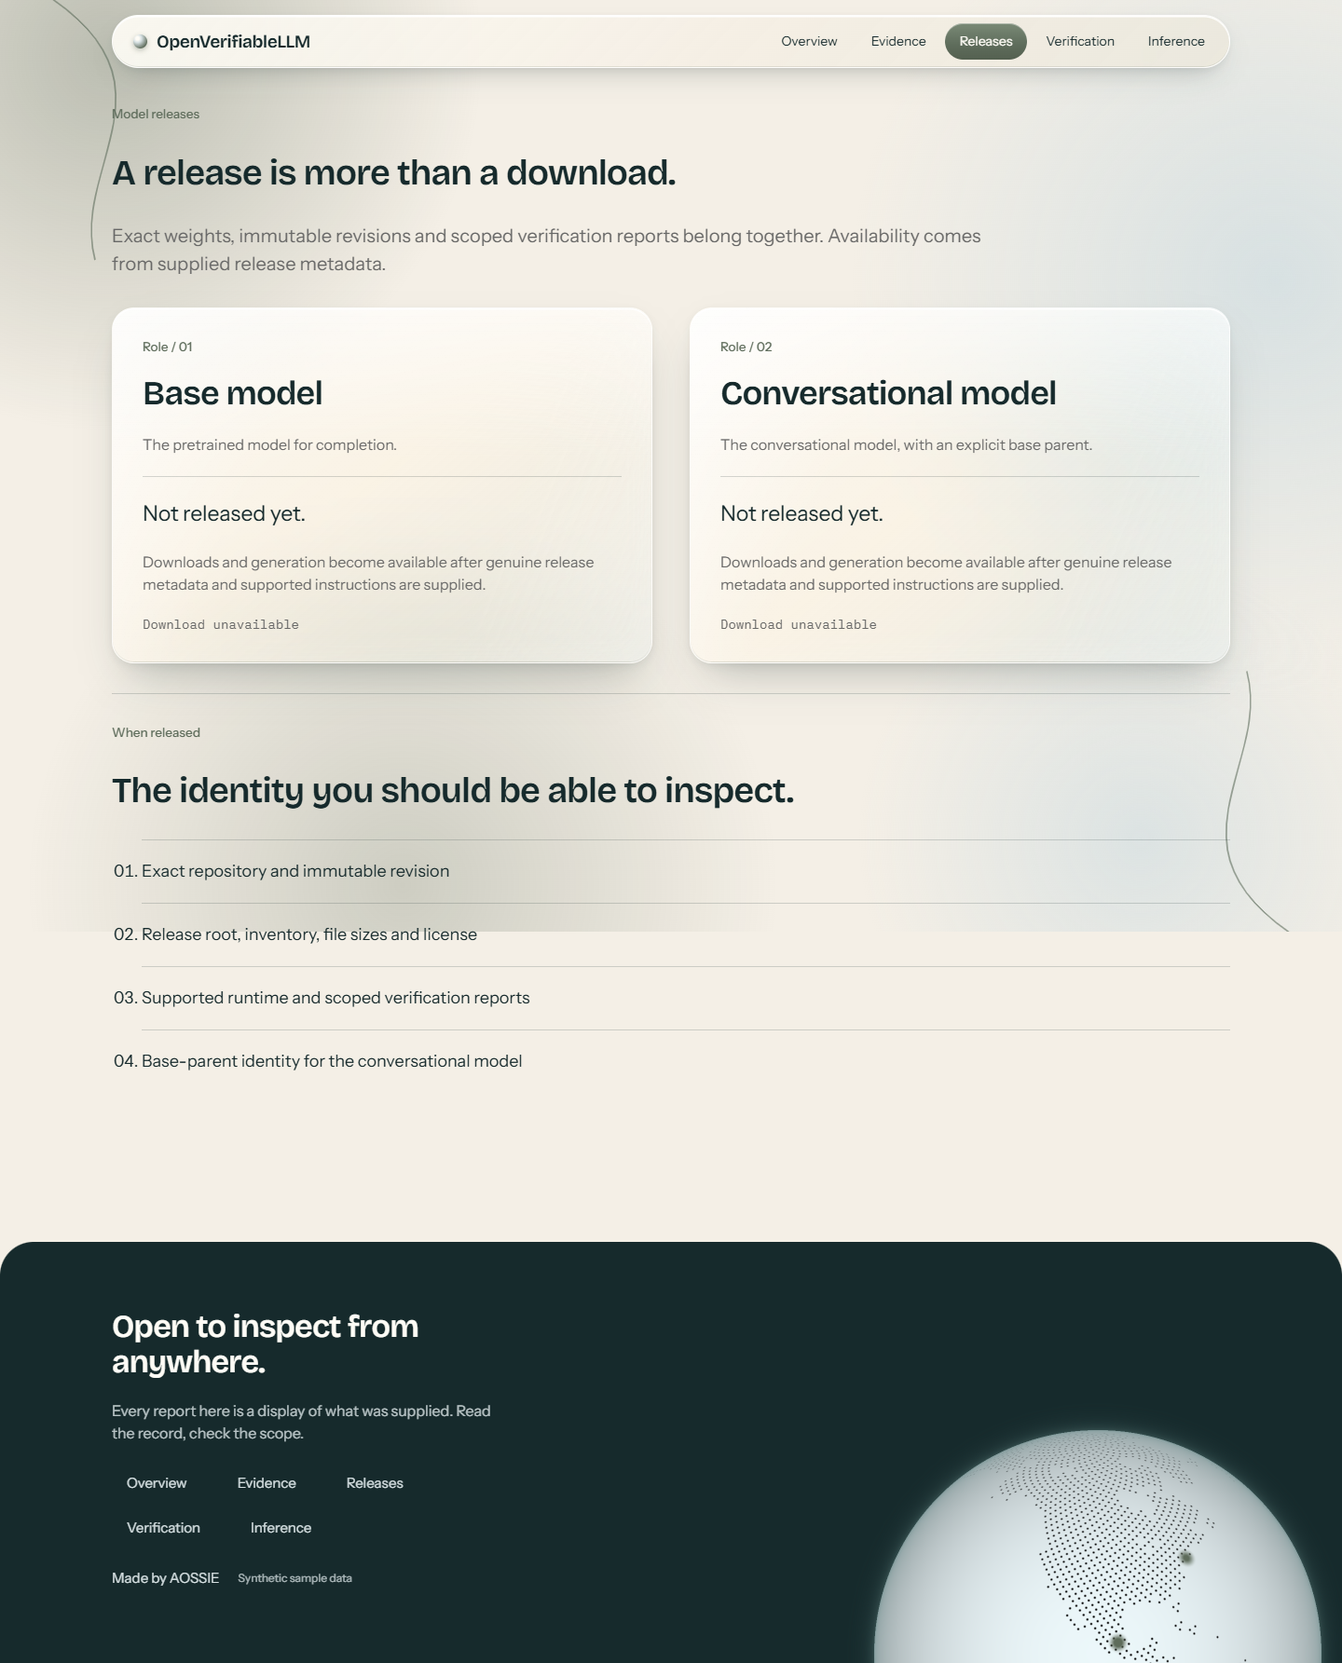
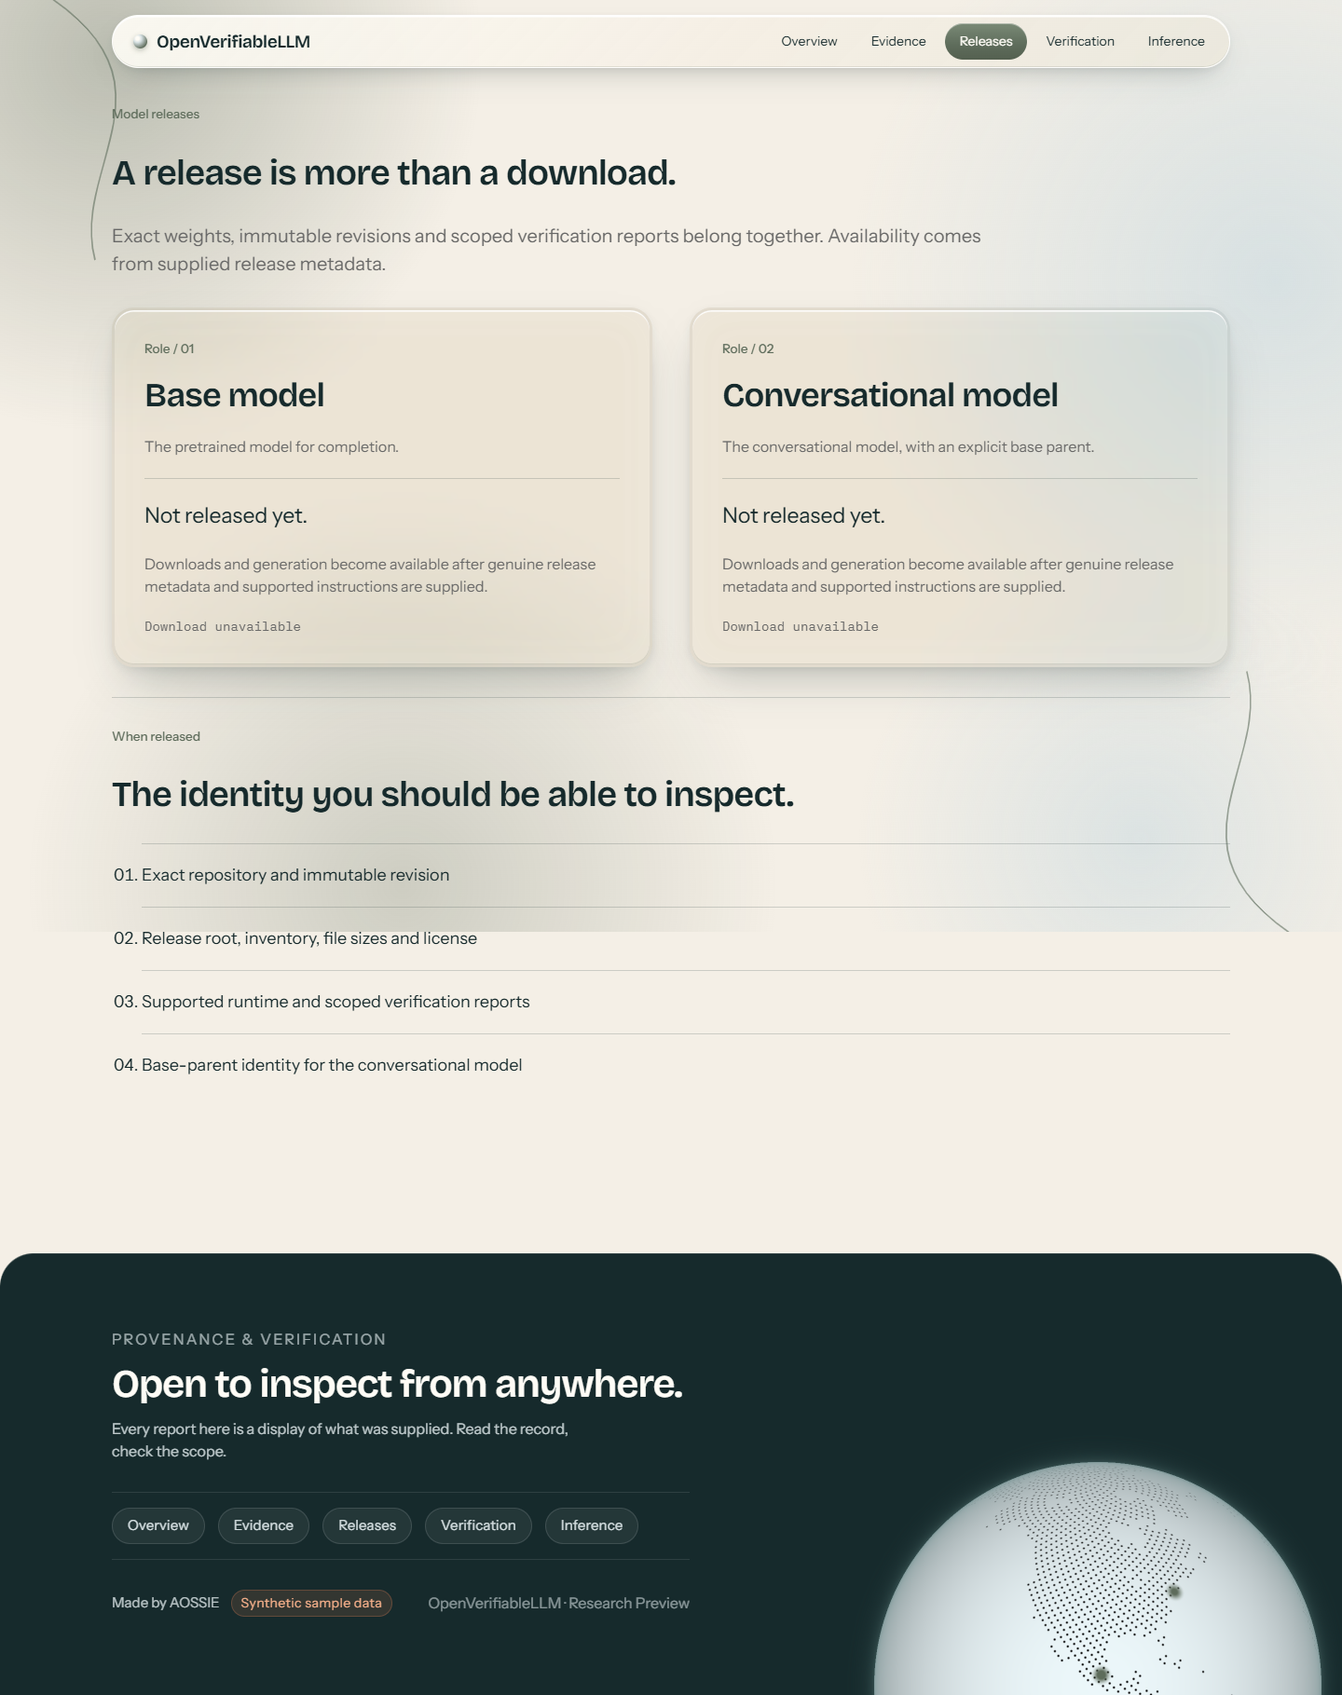
feat(ui): integrate GlowCard spotlight hover effect and refine footer typography and positioning

diff --git a/frontend/src/styles.css b/frontend/src/styles.css
@@ -144,16 +144,56 @@ pre { white-space:pre-wrap; overflow-wrap:anywhere; max-height:360px; overflow:a
 .sample-label { font-size:12px; color:var(--muted); }
 .stale { font-size:13px; color:var(--rust); padding-top:16px; }
 .stale button { border:0; border-bottom:1px solid; padding:0; color:var(--sage); background:none; }
-.site-footer { position:relative; z-index:1; margin-top:96px; background:var(--ink); color:var(--paper); border-radius:36px 36px 0 0; overflow:hidden; min-height:440px; }
-.footer-inner { position:relative; z-index:2; padding-top:72px; padding-bottom:80px; }
-.footer-copy { display:flex; flex-direction:column; gap:22px; max-width:460px; }
-.footer-title { font:600 34px/1.1 var(--display); letter-spacing:-.025em; color:var(--surface); }
-.footer-text { color:var(--mist); opacity:.85; max-width:40ch; }
-.footer-nav { display:flex; flex-wrap:wrap; gap:8px 22px; }
+.site-footer {
+  position:relative; z-index:1; margin-top:104px; background:var(--ink); color:var(--paper);
+  border-radius:36px 36px 0 0; overflow:hidden; min-height:460px;
+  box-shadow:inset 0 1px 0 rgba(255,255,255,.1);
+}
+.footer-inner { position:relative; z-index:2; padding-top:80px; padding-bottom:84px; }
+.footer-content { display:flex; flex-direction:column; gap:32px; max-width:620px; }
+.footer-lead { display:flex; flex-direction:column; gap:12px; }
+.footer-eyebrow {
+  font:500 12px/1 var(--mono); text-transform:uppercase; letter-spacing:.14em;
+  color:var(--mist); opacity:.7; margin:0;
+}
+.footer-title {
+  font:600 clamp(32px, 4vw, 42px)/1.15 var(--display);
+  letter-spacing:-.03em; color:var(--surface); margin:0;
+}
+.footer-text {
+  font:400 16px/1.65 var(--sans); color:var(--mist); opacity:.88;
+  max-width:46ch; margin:0;
+}
+.footer-nav {
+  display:flex; flex-wrap:wrap; gap:10px 14px; align-items:center;
+  padding:16px 0; border-top:1px solid rgba(255,255,255,.1); border-bottom:1px solid rgba(255,255,255,.1);
+}
+.footer-nav-link {
+  display:inline-flex; align-items:center; padding:7px 16px; border-radius:9999px;
+  background:rgba(255,255,255,.06); border:1px solid rgba(255,255,255,.12);
+  color:var(--surface); font:500 14px/1 var(--sans); letter-spacing:.01em;
+  transition:all .2s ease;
+}
+.footer-nav-link:hover {
+  background:rgba(255,255,255,.16); border-color:rgba(255,255,255,.3);
+  color:#fff; transform:translateY(-1px);
+}
+.footer-bottom {
+  display:flex; align-items:center; justify-content:space-between;
+  gap:16px 24px; flex-wrap:wrap;
+}
+.footer-credit { display:flex; align-items:center; gap:12px; flex-wrap:wrap; font-size:14px; }
+.footer-credit a { color:var(--mist); opacity:.85; transition:opacity .2s; }
+.footer-credit a:hover { opacity:1; color:var(--surface); }
+.footer-note { font:400 13px/1 var(--mono); color:var(--mist); opacity:.6; margin:0; }
 .site-footer a { color:var(--mist); font-size:15px; }
 .site-footer :focus-visible { outline-color:var(--mist); }
-.site-footer .sample-label { color:var(--mist); opacity:.8; }
-.footer-globe { position:absolute; z-index:1; right:-4%; bottom:-330px; width:640px; height:640px; }
+.site-footer .sample-label {
+  display:inline-flex; align-items:center; padding:3px 10px; border-radius:9999px;
+  background:rgba(212,118,78,.15); border:1px solid rgba(212,118,78,.3);
+  color:#f5b08a; font:500 11px/1 var(--mono); letter-spacing:.03em;
+}
+.footer-globe { position:absolute; z-index:1; right:-4%; bottom:-330px; width:640px; height:640px; pointer-events:none; }
 .sr-only { position:absolute; width:1px; height:1px; padding:0; margin:-1px; overflow:hidden; clip:rect(0,0,0,0); white-space:nowrap; border:0; }
 .skip-link { position:fixed; top:8px; left:8px; transform:translateY(-200%); z-index:10; padding:12px; background:var(--ink); color:var(--paper); }
 .skip-link:focus { color:var(--paper); }
@@ -197,7 +237,8 @@ pre { white-space:pre-wrap; overflow-wrap:anywhere; max-height:360px; overflow:a
   .profile { grid-template-columns:minmax(0,1fr); gap:12px; }
   .profile > div:first-child { padding-right:0; } .profile > div:last-child { border-left:0; padding-left:0; }
   .scroll-lines { opacity:.35; } .scroll-card-inner { padding:14px; }
-  .footer-title { font-size:28px; } .site-footer { border-radius:28px 28px 0 0; min-height:520px; } .footer-inner { padding-top:48px; padding-bottom:230px; }
+  .footer-title { font-size:28px; } .site-footer { border-radius:28px 28px 0 0; min-height:560px; } .footer-inner { padding-top:48px; padding-bottom:260px; }
+  .footer-content { max-width:100%; gap:24px; } .footer-nav { gap:8px; }
   .footer-globe { right:50%; transform:translateX(50%); width:440px; height:440px; bottom:-230px; }
   .release-card { padding:24px; }
   .inference-panel { padding:24px; } .inference-panel h2 { font-size:32px; }
@@ -224,9 +265,18 @@ pre { white-space:pre-wrap; overflow-wrap:anywhere; max-height:360px; overflow:a
   border:1px solid rgba(255,255,255,.75);
   box-shadow:inset 0 1.5px 0 rgba(255,255,255,.95), inset 0 -1px 0 rgba(94,108,91,.18), inset 0 0 40px rgba(255,255,255,.18),
     0 24px 48px -18px rgba(22,42,44,.3), 0 3px 8px rgba(22,42,44,.07);
+  transition: transform 0.35s cubic-bezier(0.16, 1, 0.3, 1), box-shadow 0.35s cubic-bezier(0.16, 1, 0.3, 1), border-color 0.3s ease;
+}
+.research-note[data-glow],.release-card[data-glow] {
+  overflow:visible;
+}
+.research-note:hover,.release-card:hover {
+  transform:translateY(-5px);
+  box-shadow:inset 0 1.5px 0 rgba(255,255,255,.98), inset 0 -1px 0 rgba(94,108,91,.25), inset 0 0 50px rgba(255,255,255,.32),
+    0 36px 72px -16px rgba(22,42,44,.42), 0 8px 24px rgba(22,42,44,.12);
 }
 .research-note::before,.note::before,.state::before,.release-card::before,.inference-panel::before,.scroll-card::before {
-  content:""; position:absolute; inset:0; z-index:-1; pointer-events:none;
+  content:""; position:absolute; inset:0; z-index:-1; pointer-events:none; border-radius:inherit;
   background:linear-gradient(180deg, rgba(255,255,255,.55) 0%, rgba(255,255,255,0) 42%),
     linear-gradient(112deg, rgba(255,255,255,.5) 0%, rgba(255,255,255,0) 30%, rgba(255,255,255,0) 70%, rgba(255,255,255,.22) 100%);
 }

diff --git a/frontend/src/components/ui/spotlight-card.tsx b/frontend/src/components/ui/spotlight-card.tsx
@@ -1,0 +1,193 @@
+import React, { useEffect, useRef, ReactNode } from 'react';
+
+export interface GlowCardProps {
+  children?: ReactNode;
+  className?: string;
+  glowColor?: 'blue' | 'purple' | 'green' | 'red' | 'orange';
+  size?: 'sm' | 'md' | 'lg';
+  width?: string | number;
+  height?: string | number;
+  customSize?: boolean; // When true, ignores size prop and uses width/height or className
+  as?: 'div' | 'article' | 'aside' | 'section';
+  id?: string;
+}
+
+const glowColorMap = {
+  blue: { base: 220, spread: 200 },
+  purple: { base: 280, spread: 300 },
+  green: { base: 120, spread: 200 },
+  red: { base: 0, spread: 200 },
+  orange: { base: 30, spread: 200 }
+};
+
+const sizeMap = {
+  sm: 'w-48 h-64',
+  md: 'w-64 h-80',
+  lg: 'w-80 h-96'
+};
+
+const GlowCard: React.FC<GlowCardProps> = ({ 
+  children, 
+  className = '', 
+  glowColor = 'blue',
+  size = 'md',
+  width,
+  height,
+  customSize = false,
+  as: Component = 'div',
+  id,
+}) => {
+  const cardRef = useRef<HTMLDivElement>(null);
+  const innerRef = useRef<HTMLDivElement>(null);
+
+  useEffect(() => {
+    const syncPointer = (e: PointerEvent) => {
+      const { clientX: x, clientY: y } = e;
+      
+      if (cardRef.current) {
+        cardRef.current.style.setProperty('--x', x.toFixed(2));
+        cardRef.current.style.setProperty('--xp', (x / window.innerWidth).toFixed(2));
+        cardRef.current.style.setProperty('--y', y.toFixed(2));
+        cardRef.current.style.setProperty('--yp', (y / window.innerHeight).toFixed(2));
+      }
+    };
+
+    document.addEventListener('pointermove', syncPointer);
+    return () => document.removeEventListener('pointermove', syncPointer);
+  }, []);
+
+  const { base, spread } = glowColorMap[glowColor];
+
+  // Determine sizing
+  const getSizeClasses = () => {
+    if (customSize) {
+      return ''; // Let className or inline styles handle sizing
+    }
+    return sizeMap[size];
+  };
+
+  const getInlineStyles = () => {
+    const baseStyles: Record<string, string | number> = {
+      '--base': base,
+      '--spread': spread,
+      '--radius': '14',
+      '--border': '3',
+      '--backdrop': 'hsl(0 0% 60% / 0.12)',
+      '--backup-border': 'var(--backdrop)',
+      '--size': '200',
+      '--outer': '1',
+      '--border-size': 'calc(var(--border, 2) * 1px)',
+      '--spotlight-size': 'calc(var(--size, 150) * 1px)',
+      '--hue': 'calc(var(--base) + (var(--xp, 0) * var(--spread, 0)))',
+      backgroundImage: `radial-gradient(
+        var(--spotlight-size) var(--spotlight-size) at
+        calc(var(--x, 0) * 1px)
+        calc(var(--y, 0) * 1px),
+        hsl(var(--hue, 210) calc(var(--saturation, 100) * 1%) calc(var(--lightness, 70) * 1%) / var(--bg-spot-opacity, 0.1)), transparent
+      )`,
+      backgroundColor: 'var(--backdrop, transparent)',
+      backgroundSize: 'calc(100% + (2 * var(--border-size))) calc(100% + (2 * var(--border-size)))',
+      backgroundPosition: '50% 50%',
+      backgroundAttachment: 'fixed',
+      border: 'var(--border-size) solid var(--backup-border)',
+      position: 'relative' as const,
+      touchAction: 'none' as const,
+    };
+
+    // Add width and height if provided
+    if (width !== undefined) {
+      baseStyles.width = typeof width === 'number' ? `${width}px` : width;
+    }
+    if (height !== undefined) {
+      baseStyles.height = typeof height === 'number' ? `${height}px` : height;
+    }
+
+    return baseStyles as React.CSSProperties;
+  };
+
+  const beforeAfterStyles = `
+    [data-glow]::before,
+    [data-glow]::after {
+      pointer-events: none;
+      content: "";
+      position: absolute;
+      inset: calc(var(--border-size) * -1);
+      border: var(--border-size) solid transparent;
+      border-radius: calc(var(--radius) * 1px);
+      background-attachment: fixed;
+      background-size: calc(100% + (2 * var(--border-size))) calc(100% + (2 * var(--border-size)));
+      background-repeat: no-repeat;
+      background-position: 50% 50%;
+      mask: linear-gradient(transparent, transparent), linear-gradient(white, white);
+      mask-clip: padding-box, border-box;
+      mask-composite: intersect;
+    }
+    
+    [data-glow]::before {
+      background-image: radial-gradient(
+        calc(var(--spotlight-size) * 0.75) calc(var(--spotlight-size) * 0.75) at
+        calc(var(--x, 0) * 1px)
+        calc(var(--y, 0) * 1px),
+        hsl(var(--hue, 210) calc(var(--saturation, 100) * 1%) calc(var(--lightness, 50) * 1%) / var(--border-spot-opacity, 1)), transparent 100%
+      );
+      filter: brightness(2);
+    }
+    
+    [data-glow]::after {
+      background-image: radial-gradient(
+        calc(var(--spotlight-size) * 0.5) calc(var(--spotlight-size) * 0.5) at
+        calc(var(--x, 0) * 1px)
+        calc(var(--y, 0) * 1px),
+        hsl(0 100% 100% / var(--border-light-opacity, 1)), transparent 100%
+      );
+    }
+    
+    [data-glow] [data-glow] {
+      position: absolute;
+      inset: 0;
+      will-change: filter;
+      opacity: var(--outer, 1);
+      border-radius: calc(var(--radius) * 1px);
+      border-width: calc(var(--border-size) * 20);
+      filter: blur(calc(var(--border-size) * 10));
+      background: none;
+      pointer-events: none;
+      border: none;
+    }
+    
+    [data-glow] > [data-glow]::before {
+      inset: -10px;
+      border-width: 10px;
+    }
+  `;
+
+  return (
+    <>
+      <style dangerouslySetInnerHTML={{ __html: beforeAfterStyles }} />
+      <Component
+        ref={cardRef as any}
+        id={id}
+        data-glow
+        style={getInlineStyles()}
+        className={`
+          ${getSizeClasses()}
+          ${!customSize ? 'aspect-[3/4]' : ''}
+          rounded-2xl 
+          relative 
+          grid 
+          grid-rows-[1fr_auto] 
+          shadow-[0_1rem_2rem_-1rem_black] 
+          p-4 
+          gap-4 
+          backdrop-blur-[5px]
+          ${className}
+        `}
+      >
+        <div ref={innerRef} data-glow></div>
+        {children}
+      </Component>
+    </>
+  );
+};
+
+export { GlowCard };

diff --git a/frontend/src/pages.tsx b/frontend/src/pages.tsx
@@ -3,6 +3,7 @@ import { type Snapshot, type Evidence, results, scopes, evidenceChecks, immutabl
 import { Button, CheckFacts, Copy, EvidenceLink, External, Label, Note, ResultText, SourceInfo, State, Title, attributionNames, formatDate } from './components';
 import { detailHref } from './router';
 import { ContainerScroll } from '@/components/ui/container-scroll-animation';
+import { GlowCard } from '@/components/ui/spotlight-card';
 
 const stages = ['Public sources', 'Prepared data / tokenizer', 'Initialization', 'Base training', 'Conversational training', 'Complete replay', 'Publication'];
 export function EvidenceTable({ snapshot, items }: { snapshot: Snapshot; items: Evidence[] }) {
@@ -29,11 +30,11 @@ export function Overview({ snapshot }: { snapshot: Snapshot }) {
         <p className="intro">OpenVerifiableLLM explores whether a small language model’s declared inputs, data preparation and training computation can be inspected and reproduced.</p>
         <div className="actions"><Button href="#/evidence">Explore evidence</Button><a href="#/verification">How verification works <span aria-hidden="true">↗</span></a></div>
       </div>
-      <aside className="research-note"><Label>Release availability</Label><h2>{hasReleased ? 'Release records supplied.' : 'Not released yet.'}</h2>
+      <GlowCard as="aside" customSize glowColor="blue" className="research-note"><Label>Release availability</Label><h2>{hasReleased ? 'Release records supplied.' : 'Not released yet.'}</h2>
         <p>{hasReleased ? 'Inspect exact identities and scoped reports. Synthetic release examples are not downloadable project models.' : 'Final base and conversational models are not available in this snapshot.'}</p>
         <hr /><div className="mono small"><p>Snapshot: {formatDate(snapshot.generatedAt)}</p><p>{snapshot.mode === 'fixture' ? 'Actual project status: approval pending' : 'Approved public display snapshot'}</p></div>
         <a href="#/releases">View releases <span aria-hidden="true">↗</span></a>
-      </aside>
+      </GlowCard>
     </section>
     <hr />
     <section className="section stack"><Label>01 / The process</Label><h2>From public inputs to a reproducible release.</h2>
@@ -121,7 +122,7 @@ export function EvidenceDetail({ snapshot, id }: { snapshot: Snapshot; id: strin
 export function Releases({ snapshot }: { snapshot: Snapshot }) {
   return <>
     <Title label="Model releases" intro="Exact weights, immutable revisions and scoped verification reports belong together. Availability comes from supplied release metadata.">A release is more than a download.</Title>
-    <div className="release-grid">{snapshot.releases.map((r, i) => <article className="release-card" key={r.id} id={'release-' + r.id}>
+    <div className="release-grid">{snapshot.releases.map((r, i) => <GlowCard as="article" customSize glowColor={r.role === 'base' ? 'blue' : 'purple'} className="release-card" key={r.id} id={'release-' + r.id}>
       <Label>Role / {String(i + 1).padStart(2, '0')}</Label><h2>{r.role === 'base' ? 'Base model' : 'Conversational model'}</h2><p className="muted">{r.role === 'base' ? 'The pretrained model for completion.' : 'The conversational model, with an explicit base parent.'}</p><hr />
       <h3>{r.availability === 'not-released' ? 'Not released yet.' : r.availability === 'withdrawn' ? 'Release withdrawn.' : 'Release metadata supplied.'}</h3>
       {r.availability !== 'available' ? <><p className="muted">Downloads and generation become available after genuine release metadata and supported instructions are supplied.</p><button disabled className="unavailable">Download unavailable</button></> : r.identity && <>
@@ -132,7 +133,7 @@ export function Releases({ snapshot }: { snapshot: Snapshot }) {
         <ul className="file-list">{r.identity.files.map(f => <li key={f.path}><code>{f.path}</code><span>{f.sizeBytes.toLocaleString()} bytes</span>{snapshot.mode === 'public-snapshot' ? <External url={immutableFileUrl(r, f.path)}>Download pinned file</External> : <button disabled>Download unavailable (fixture)</button>}</li>)}</ul>
         <h3>Scoped verification reports</h3>{!r.checkIds.length && <p>No checks reported for this release.</p>}{r.checkIds.map(id => { const c = snapshot.checks.find(c => c.id === id); return c ? <CheckFacts key={id} check={c} snapshot={snapshot} /> : <p key={id} className="missing">Missing check reference: {id}</p>; })}
       </>}
-    </article>)}</div>
+    </GlowCard>)}</div>
     <hr /><section className="stack"><Label>When released</Label><h2>The identity you should be able to inspect.</h2><ol className="requirements">{['Exact repository and immutable revision', 'Release root, inventory, file sizes and license', 'Supported runtime and scoped verification reports', 'Base-parent identity for the conversational model'].map(s => <li key={s}>{s}</li>)}</ol></section>
   </>;
 }

diff --git a/frontend/src/chrome.tsx b/frontend/src/chrome.tsx
@@ -42,11 +42,22 @@ export function useScrollReveal(deps: unknown[]) {
 export function SiteFooter({ nav, sample }: { nav: string[][]; sample: boolean }) {
   return <footer className="site-footer">
     <div className="container footer-inner">
-      <div className="footer-copy">
-        <p className="footer-title">Open to inspect from anywhere.</p>
-        <p className="footer-text">Every report here is a display of what was supplied. Read the record, check the scope.</p>
-        <nav aria-label="Footer" className="footer-nav">{nav.map(([p, label]) => <a key={p} href={'#' + p}>{label}</a>)}</nav>
-        <div className="footer-credit"><a href="https://github.com/AOSSIE-Org/OpenVerifiableLLM" target="_blank" rel="noopener noreferrer">Made by AOSSIE<span className="sr-only"> (external, opens in a new tab)</span></a>{sample && <span className="sample-label">Synthetic sample data</span>}</div>
+      <div className="footer-content">
+        <div className="footer-lead">
+          <p className="footer-eyebrow">Provenance &amp; Verification</p>
+          <p className="footer-title">Open to inspect from anywhere.</p>
+          <p className="footer-text">Every report here is a display of what was supplied. Read the record, check the scope.</p>
+        </div>
+        <nav aria-label="Footer" className="footer-nav">
+          {nav.map(([p, label]) => <a key={p} href={'#' + p} className="footer-nav-link">{label}</a>)}
+        </nav>
+        <div className="footer-bottom">
+          <div className="footer-credit">
+            <a href="https://github.com/AOSSIE-Org/OpenVerifiableLLM" target="_blank" rel="noopener noreferrer">Made by AOSSIE<span className="sr-only"> (external, opens in a new tab)</span></a>
+            {sample && <span className="sample-label">Synthetic sample data</span>}
+          </div>
+          <p className="footer-note">OpenVerifiableLLM · Research Preview</p>
+        </div>
       </div>
     </div>
     <div className="footer-globe"><Globe /></div>

diff --git a/frontend/src/App.tsx b/frontend/src/App.tsx
@@ -6,7 +6,7 @@ import { EvidenceDetail, EvidenceExplorer, InferenceUnavailable, Overview, Relea
 import { Button, Label, State, formatDate } from './components';
 import { ScrollLines, SiteFooter, useScrollReveal } from './chrome';
 
-const DevInference = import.meta.env.DEV && import.meta.env.VITE_MOCK_INFERENCE === 'true'
+const DevInference = import.meta.env.DEV && (import.meta.env.VITE_MOCK_INFERENCE === 'true' || window.location.port === '5173')
   ? lazy(() => import('./inference/DevInference')) : null;
 type DataState = { status: 'loading' } | { status: 'ready' | 'stale'; snapshot: Snapshot } | { status: 'error'; message: string };
 const nav = [['/', 'Overview'], ['/evidence', 'Evidence'], ['/releases', 'Releases'], ['/verification', 'Verification'], ['/inference', 'Inference']];

diff --git a/frontend/src/components/ui/demo.tsx b/frontend/src/components/ui/demo.tsx
@@ -1,0 +1,11 @@
+import { GlowCard } from "@/components/ui/spotlight-card";
+
+export function Default() {
+  return (
+    <div className="w-screen h-screen flex flex-row items-center justify-center gap-10 custom-cursor">
+      <GlowCard />
+      <GlowCard />
+      <GlowCard />
+    </div>
+  );
+}
